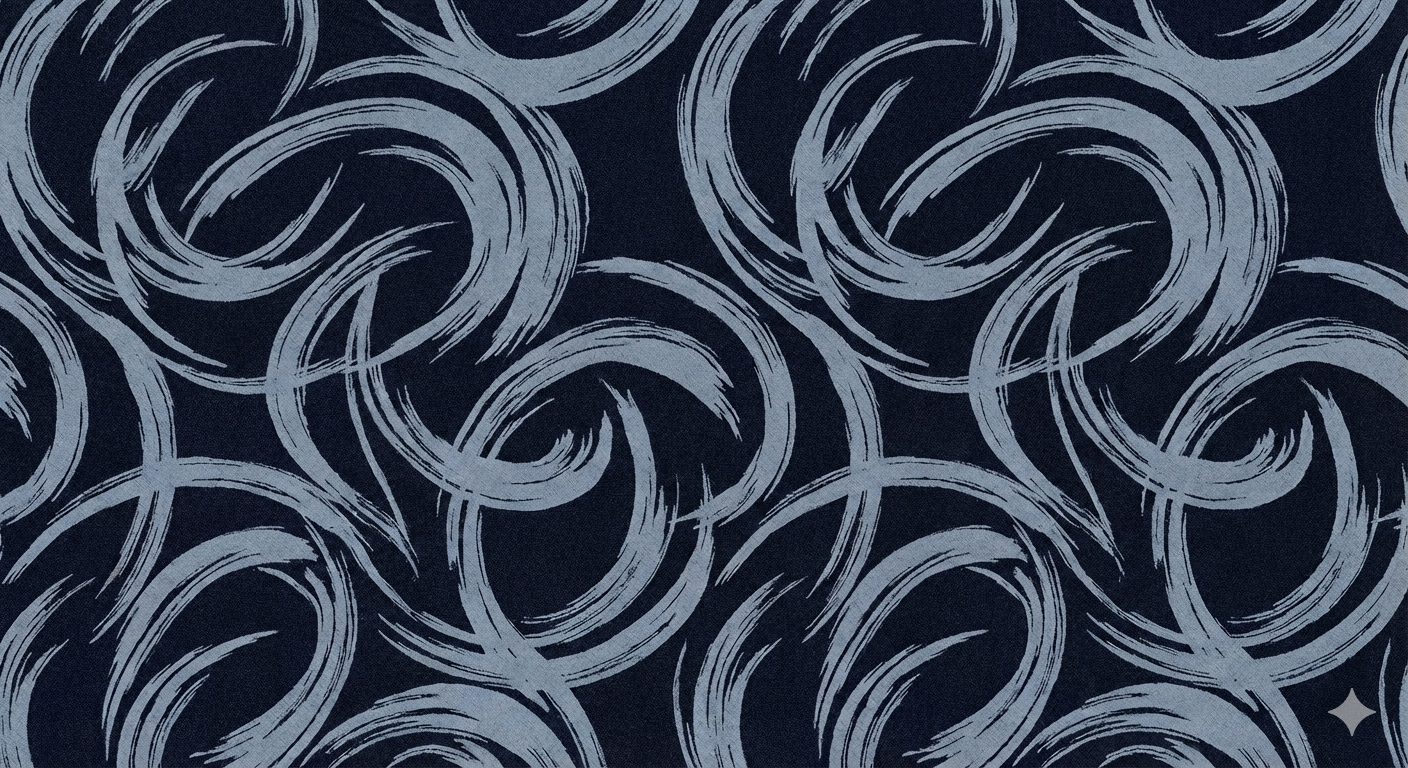
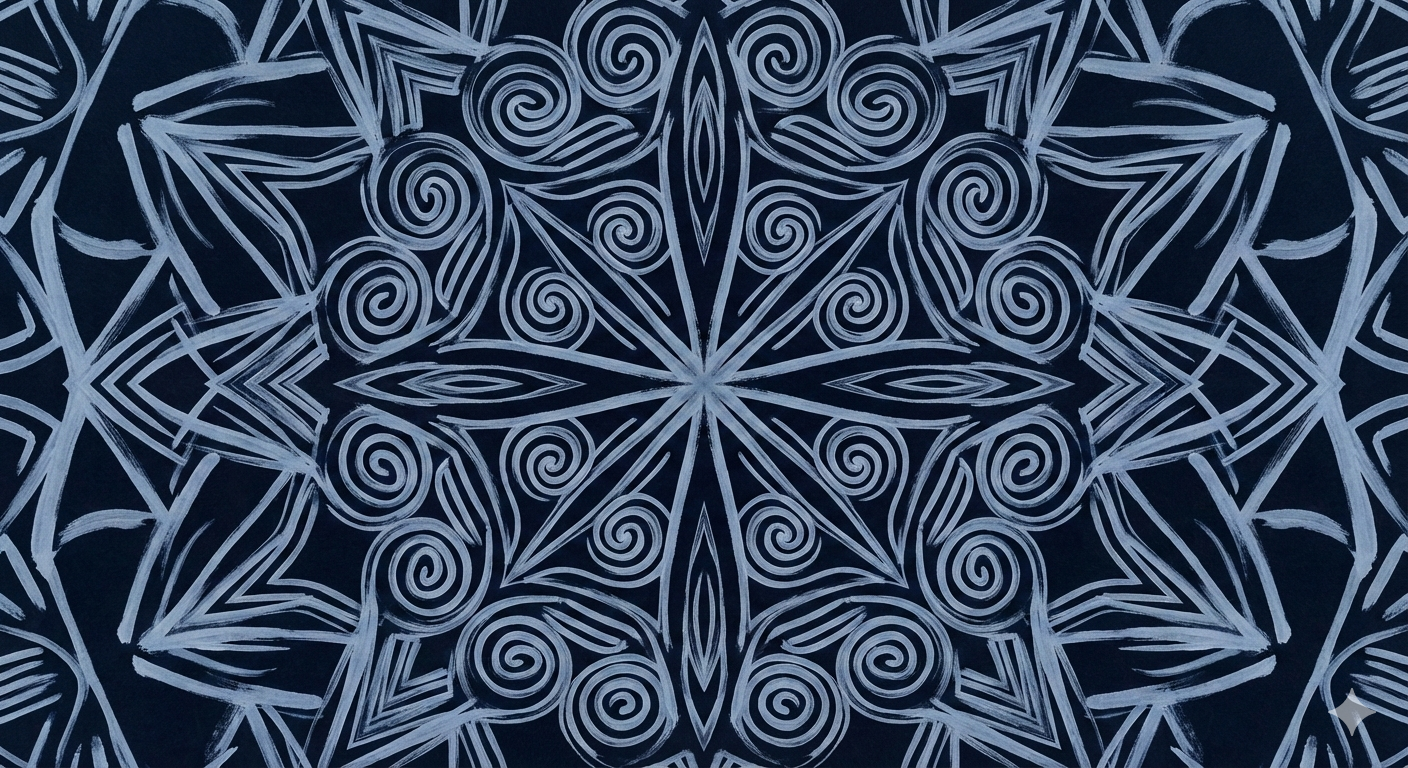
Add files via upload

diff --git a/script.js b/script.js
@@ -211,12 +211,11 @@ function renderLibrary() {
 
   if (!state.library.length) {
     libSearch.style.display = `none`;
-    filterToggle.style.display = `none`;
     sortType.style.display = `none`;
     sortDirBtn.style.display = `none`;
     libEl.innerHTML = `<div class="empty">Your library is empty. Click on the "Add Movie" Button to add a movie!</div>`;
     return;
-  }else {filterToggle.style.display = `block`;}
+  }
 
   if (state.library.length > 1) {
     libSearch.style.display = `block`;
@@ -227,6 +226,12 @@ function renderLibrary() {
     sortType.style.display = `none`;
     sortDirBtn.style.display = `none`;
   }
+
+  if(!state.library.length && filterPanel.style.opacity == 0) {
+    filterToggle.style.display = `none`;
+  }else if(!state.library.length && filterPanel.style.opacity == 1) {
+    filterToggle.style.display = `block`;
+  }else {filterToggle.style.display = `block`;}
   
   if (list.length === 0) {
     libEl.innerHTML = `<div class="empty" style="font-size:1.2rem">No movies match your filters.</div>`;
@@ -554,6 +559,7 @@ function closeModal() {
   typeSelect.value = 'movie';
 }
 
+const heading = document.getElementById('heading');
 document.getElementById('addBtn').onclick = openModal;
 document.getElementById('closeBtn').onclick = closeModal;
 document.getElementById('searchBtn').onclick = performSearch;
@@ -569,6 +575,13 @@ queryInput.addEventListener('keydown', e => {
 
 document.addEventListener('click', () => {
   document.querySelectorAll('.menu').forEach(m => m.style.display = 'none');
+});
+
+heading.style.cursor = 'pointer';
+
+heading.onclick = () => window.scrollTo({
+  top: 0,
+  behavior: 'smooth'
 });
 
 renderLibrary();

diff --git a/style.css b/style.css
@@ -16,6 +16,8 @@ body {
   font-family: system-ui, -apple-system, Segoe UI, Roboto;
   background-image: url(bimg.png);
   background-size: cover;
+  min-height: 100vh;
+  height: 100%;
   color: #e6eaf0;
 }
 
@@ -26,9 +28,11 @@ header {
   padding: 16px 20px;
   border-bottom: 1px solid #252d3d;
   align-items: center;
-  justify-content: space-between;
   background-color: rgba(6, 9, 17, 0.85);
   backdrop-filter: blur(5px);
+  position: sticky;
+  top: 0;
+  z-index: 50;
 }
 
 header .controls {
@@ -36,6 +40,7 @@ header .controls {
   display: flex;
   align-items: center;
   justify-content: center;
+  gap: 8px;
 }
 
 button {
@@ -58,8 +63,9 @@ button.secondary {
 }
 
 .empty {
-  color: var(--muted);
-  padding: 40px;
+  color: #fff;
+  background-image: radial-gradient(ellipse,#0f1220, transparent);
+  padding: 40px 0;
   text-align: center;
   font-size: 1.75rem;
 }
@@ -272,7 +278,11 @@ h3 {
 }
 
 .rating-value::-webkit-outer-spin-button,
-.rating-value::-webkit-inner-spin-button {
+.rating-value::-webkit-inner-spin-button,
+#yearStart::-webkit-outer-spin-button,
+#yearStart::-webkit-inner-spin-button,
+#yearEnd::-webkit-outer-spin-button,
+#yearEnd::-webkit-inner-spin-button {
   -webkit-appearance: none;
   margin: 0;
 }
@@ -432,4 +442,12 @@ h3 {
   #sortDirBtn {
     order: 3;
   }
+}
+
+@media screen and (max-width: 550px) {
+
+  body {
+    background-size: contain;
+  }
+
 }

diff --git a/index.html b/index.html
@@ -9,9 +9,9 @@
 
 <body>
   <header>
-    <h1>Personal Movie Library</h1>
+    <h1 id="heading">Personal Movie Library</h1>
     
-    <div class="controls" style="display:flex; gap:8px; align-items:center;">
+    <div class="controls">
       <input type="text" id="libSearch" placeholder="Search library..." />
       
       <select id="sortType">
